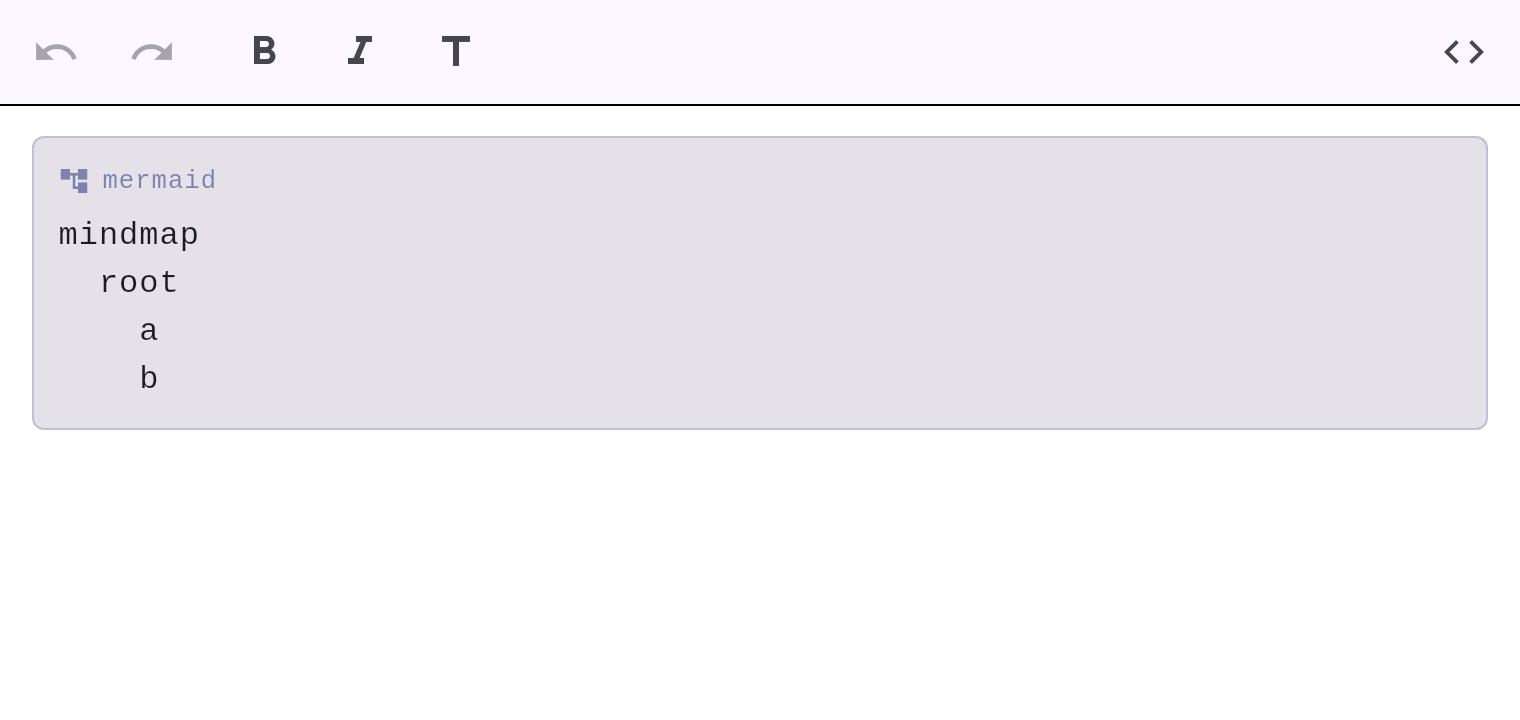
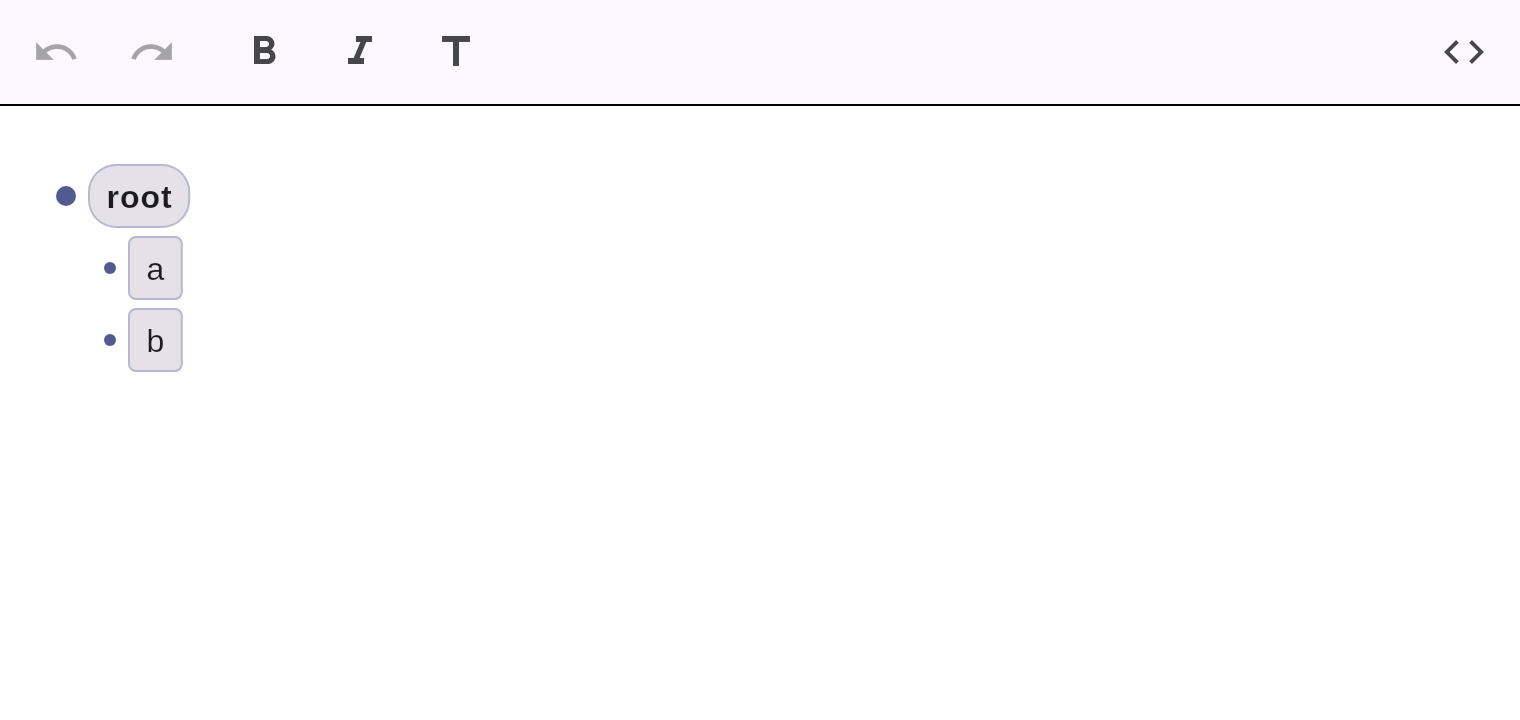
Render Mermaid mindmaps natively
Adds a pure-Dart parser (parseMindmap) that builds a tree from indentation
and strips shape decorations (((circle)), [square], (round), etc.), plus an
indented-tree view (MermaidMindmapView). Wired into NativeDiagramRenderer,
exported, covered by unit + widget tests, documented. The source-card
fallback test now uses a still-unsupported type.

diff --git a/lib/src/diagram/mermaid_mindmap.dart b/lib/src/diagram/mermaid_mindmap.dart
@@ -1,0 +1,172 @@
+import 'package:flutter/material.dart';
+
+/// A node in a mindmap tree.
+class MindmapNode {
+  MindmapNode(this.text, {this.depth = 0});
+  final String text;
+  final int depth;
+  final List<MindmapNode> children = [];
+
+  int get subtreeCount =>
+      1 + children.fold(0, (s, c) => s + c.subtreeCount);
+}
+
+/// A parsed Mermaid `mindmap` diagram.
+@immutable
+class Mindmap {
+  const Mindmap({required this.root});
+  final MindmapNode root;
+
+  /// Total number of nodes in the tree, including the root.
+  int get nodeCount => root.subtreeCount;
+}
+
+final RegExp _firstLine = RegExp(r'^mindmap(\s|$)');
+
+// Shape patterns, tried longest-delimiter first. An optional leading word id is
+// stripped; the captured group is the displayed text.
+final List<RegExp> _shapes = [
+  RegExp(r'^\w*\(\((.+)\)\)$'), // ((circle))
+  RegExp(r'^\w*\{\{(.+)\}\}$'), // {{hexagon}}
+  RegExp(r'^\w*\)\)(.+)\(\($'), // ))bang((
+  RegExp(r'^\w*\[(.+)\]$'), //    [square]
+  RegExp(r'^\w*\((.+)\)$'), //    (round)
+  RegExp(r'^\w*\)(.+)\($'), //    )cloud(
+];
+
+String _stripShape(String raw) {
+  for (final re in _shapes) {
+    final m = re.firstMatch(raw);
+    if (m != null) return m.group(1)!.trim();
+  }
+  return raw;
+}
+
+int _indentOf(String line) {
+  var n = 0;
+  for (final ch in line.runes) {
+    if (ch == 0x20) {
+      n += 1;
+    } else if (ch == 0x09) {
+      n += 4; // treat a tab as four columns
+    } else {
+      break;
+    }
+  }
+  return n;
+}
+
+/// Parses a Mermaid `mindmap` diagram, or returns null if [source] isn't one
+/// (or has no root). Indentation defines the tree. Pure Dart — part of the
+/// native, no-JS diagram engine.
+Mindmap? parseMindmap(String source) {
+  final raw = source.split('\n');
+  // Find the `mindmap` header line.
+  var i = 0;
+  while (i < raw.length && raw[i].trim().isEmpty) {
+    i++;
+  }
+  if (i >= raw.length || !_firstLine.hasMatch(raw[i].trim())) return null;
+
+  MindmapNode? root;
+  final stack = <MindmapNode>[];
+  final indents = <int>[];
+
+  for (var j = i + 1; j < raw.length; j++) {
+    final line = raw[j];
+    if (line.trim().isEmpty) continue;
+    final indent = _indentOf(line);
+    final text = _stripShape(line.trim());
+    if (text.isEmpty) continue;
+
+    if (root == null) {
+      root = MindmapNode(text);
+      stack.add(root);
+      indents.add(indent);
+      continue;
+    }
+
+    // Pop until we find the parent (strictly smaller indent).
+    while (indents.length > 1 && indent <= indents.last) {
+      stack.removeLast();
+      indents.removeLast();
+    }
+    final node = MindmapNode(text, depth: stack.length);
+    stack.last.children.add(node);
+    stack.add(node);
+    indents.add(indent);
+  }
+
+  if (root == null) return null;
+  return Mindmap(root: root);
+}
+
+/// Renders a [Mindmap] natively as an indented tree with connector dots.
+/// (A radial layout is a future enhancement; the tree view is fully readable
+/// on every platform with no WebView/JS.)
+class MermaidMindmapView extends StatelessWidget {
+  const MermaidMindmapView({
+    super.key,
+    required this.mindmap,
+    required this.textStyle,
+    required this.lineColor,
+    required this.fillColor,
+  });
+  final Mindmap mindmap;
+  final TextStyle textStyle;
+  final Color lineColor;
+  final Color fillColor;
+
+  @override
+  Widget build(BuildContext context) {
+    final rows = <Widget>[];
+    void visit(MindmapNode node, int depth) {
+      rows.add(_row(node, depth));
+      for (final child in node.children) {
+        visit(child, depth + 1);
+      }
+    }
+
+    visit(mindmap.root, 0);
+    return Column(
+      crossAxisAlignment: CrossAxisAlignment.start,
+      mainAxisSize: MainAxisSize.min,
+      children: rows,
+    );
+  }
+
+  Widget _row(MindmapNode node, int depth) {
+    final isRoot = depth == 0;
+    return Padding(
+      padding: EdgeInsets.only(left: depth * 24.0, top: 2, bottom: 2),
+      child: Row(
+        mainAxisSize: MainAxisSize.min,
+        children: [
+          Container(
+            width: isRoot ? 10 : 6,
+            height: isRoot ? 10 : 6,
+            margin: const EdgeInsets.only(right: 6),
+            decoration: BoxDecoration(
+              color: lineColor,
+              shape: BoxShape.circle,
+            ),
+          ),
+          Container(
+            padding: const EdgeInsets.symmetric(horizontal: 8, vertical: 3),
+            decoration: BoxDecoration(
+              color: fillColor,
+              borderRadius: BorderRadius.circular(isRoot ? 14 : 4),
+              border: Border.all(color: lineColor.withValues(alpha: 0.3)),
+            ),
+            child: Text(
+              node.text,
+              style: isRoot
+                  ? textStyle.copyWith(fontWeight: FontWeight.bold)
+                  : textStyle,
+            ),
+          ),
+        ],
+      ),
+    );
+  }
+}

diff --git a/test/unit/mermaid_mindmap_test.dart b/test/unit/mermaid_mindmap_test.dart
@@ -1,0 +1,49 @@
+import 'package:flutter_test/flutter_test.dart';
+import 'package:markey_mark/src/diagram/mermaid_mindmap.dart';
+
+void main() {
+  group('parseMindmap', () {
+    const source = '''
+mindmap
+  root((mindmap))
+    Origins
+      Long history
+    Research
+      On effectiveness
+''';
+
+    test('parses the root node, stripping shape syntax', () {
+      final m = parseMindmap(source);
+      expect(m, isNotNull);
+      expect(m!.root.text, 'mindmap');
+    });
+
+    test('builds the tree from indentation', () {
+      final m = parseMindmap(source)!;
+      expect(m.root.children.length, 2);
+      expect(m.root.children[0].text, 'Origins');
+      expect(m.root.children[0].children.single.text, 'Long history');
+      expect(m.root.children[1].text, 'Research');
+      expect(m.root.children[1].children.single.text, 'On effectiveness');
+    });
+
+    test('strips the common shape decorations', () {
+      final m = parseMindmap('mindmap\n  r[Square]\n    c(Round)')!;
+      expect(m.root.text, 'Square');
+      expect(m.root.children.single.text, 'Round');
+    });
+
+    test('counts total nodes', () {
+      expect(parseMindmap(source)!.nodeCount, 5);
+    });
+
+    test('returns null for non-mindmap diagrams', () {
+      expect(parseMindmap('pie\n"A" : 1'), isNull);
+      expect(parseMindmap('timeline\n2002 : LinkedIn'), isNull);
+    });
+
+    test('returns null when there is no root node', () {
+      expect(parseMindmap('mindmap'), isNull);
+    });
+  });
+}

diff --git a/lib/src/render/diagram_renderer.dart b/lib/src/render/diagram_renderer.dart
@@ -5,6 +5,7 @@ import '../diagram/mermaid_er.dart';
 import '../diagram/mermaid_flowchart.dart';
 import '../diagram/mermaid_gantt.dart';
 import '../diagram/mermaid_journey.dart';
+import '../diagram/mermaid_mindmap.dart';
 import '../diagram/mermaid_pie.dart';
 import '../diagram/mermaid_sequence.dart';
 import '../diagram/mermaid_state.dart';
@@ -68,6 +69,24 @@ class NativeDiagramRenderer implements DiagramRenderer {
             journey: journey,
             textStyle: style.baseTextStyle,
             lineColor: style.caretColor,
+          ),
+        ),
+      );
+    }
+    final mindmap = parseMindmap(node.source);
+    if (mindmap != null) {
+      return Container(
+        key: ValueKey('markey-mindmap-${node.id}'),
+        padding: const EdgeInsets.all(12),
+        alignment: Alignment.centerLeft,
+        child: SingleChildScrollView(
+          scrollDirection: Axis.horizontal,
+          child: MermaidMindmapView(
+            mindmap: mindmap,
+            textStyle: style.baseTextStyle,
+            lineColor: style.caretColor,
+            fillColor: style.codeTextStyle.backgroundColor ??
+                style.caretColor.withValues(alpha: 0.08),
           ),
         ),
       );

diff --git a/test/widget/blocks_render_test.dart b/test/widget/blocks_render_test.dart
@@ -244,10 +244,20 @@ void main() {
 
   testWidgets('an unsupported diagram type degrades to the source card',
       (tester) async {
-    final c = await pump(tester, '```mermaid\nmindmap\n  root\n    a\n```');
+    final c = await pump(tester, '```mermaid\nquadrantChart\n  x-axis a\n```');
     final id = c.document.nodes.first.id;
     expect(find.byKey(ValueKey('markey-mermaid-$id')), findsOneWidget);
     expect(find.text('mermaid'), findsOneWidget);
+    await teardown(tester);
+  });
+
+  testWidgets('mermaid mindmap renders natively', (tester) async {
+    final c = await pump(tester,
+        '```mermaid\nmindmap\n  root((Ideas))\n    Origins\n    Research\n```');
+    final id = c.document.nodes.first.id;
+    expect(find.byKey(ValueKey('markey-mindmap-$id')), findsOneWidget);
+    expect(find.byType(MermaidMindmapView), findsOneWidget);
+    expect(find.text('mermaid'), findsNothing);
     await teardown(tester);
   });
 

diff --git a/lib/markey_mark.dart b/lib/markey_mark.dart
@@ -80,6 +80,8 @@ export 'src/diagram/mermaid_timeline.dart'
         TimelinePeriod,
         parseTimeline,
         MermaidTimelineView;
+export 'src/diagram/mermaid_mindmap.dart'
+    show Mindmap, MindmapNode, parseMindmap, MermaidMindmapView;
 export 'src/diagram/mermaid_sequence.dart'
     show SequenceDiagram, SeqMessage, parseSequence, SequenceDiagramView;
 export 'src/diagram/mermaid_flowchart.dart'

diff --git a/docs/features/diagrams.md b/docs/features/diagrams.md
@@ -129,9 +129,26 @@ title History of Social Media
 ```
 ````
 
+## Mindmaps
+
+Mindmaps render natively as an indented tree (indentation defines the
+hierarchy), with shape decorations like `((circle))`, `[square]` and `(round)`
+stripped to their text:
+
+````markdown
+```mermaid
+mindmap
+  root((Ideas))
+    Origins
+      Long history
+    Research
+      On effectiveness
+```
+````
+
 ## Other types
 
-Diagram types the native engine doesn't yet support (e.g. mindmap) degrade
+Remaining diagram types the native engine doesn't yet support degrade
 gracefully to a readable **source card** with a `mermaid` badge:
 
 ![Mermaid source-card fallback](../images/mermaid.png)
